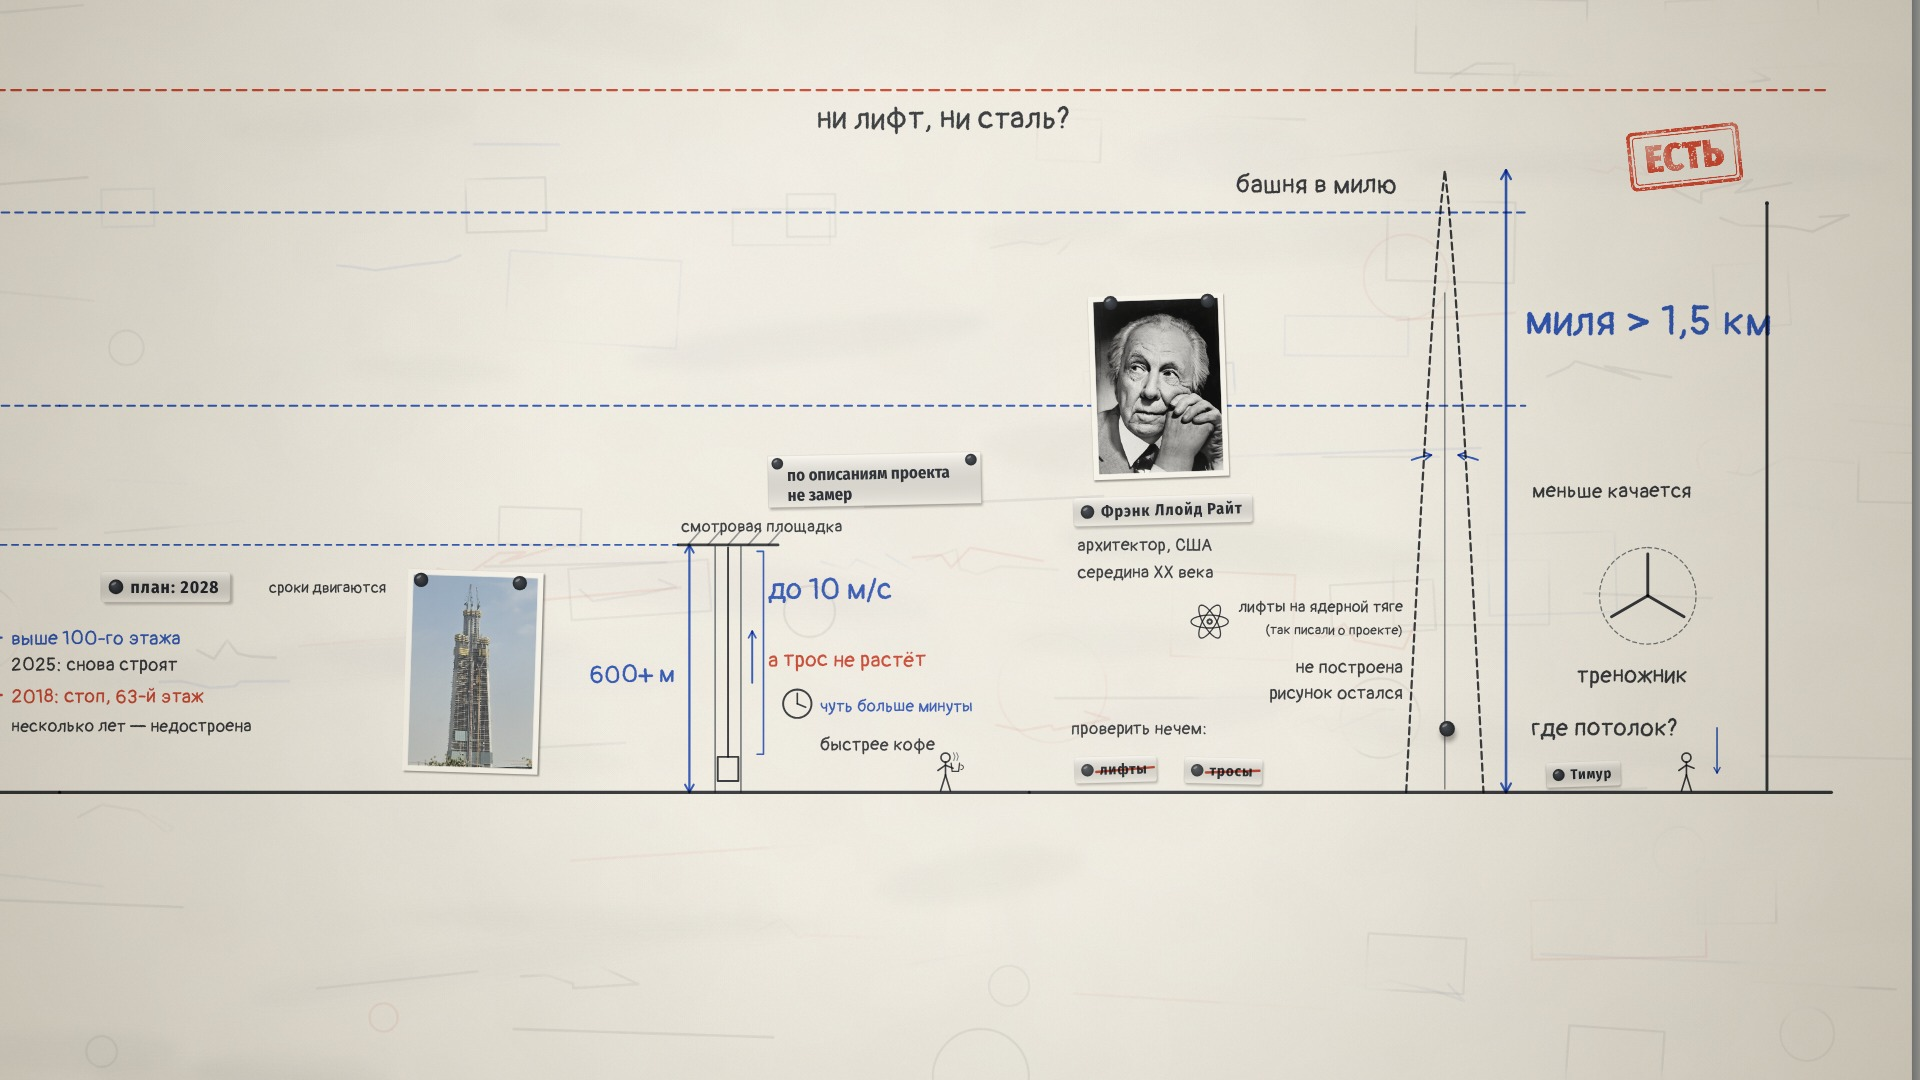
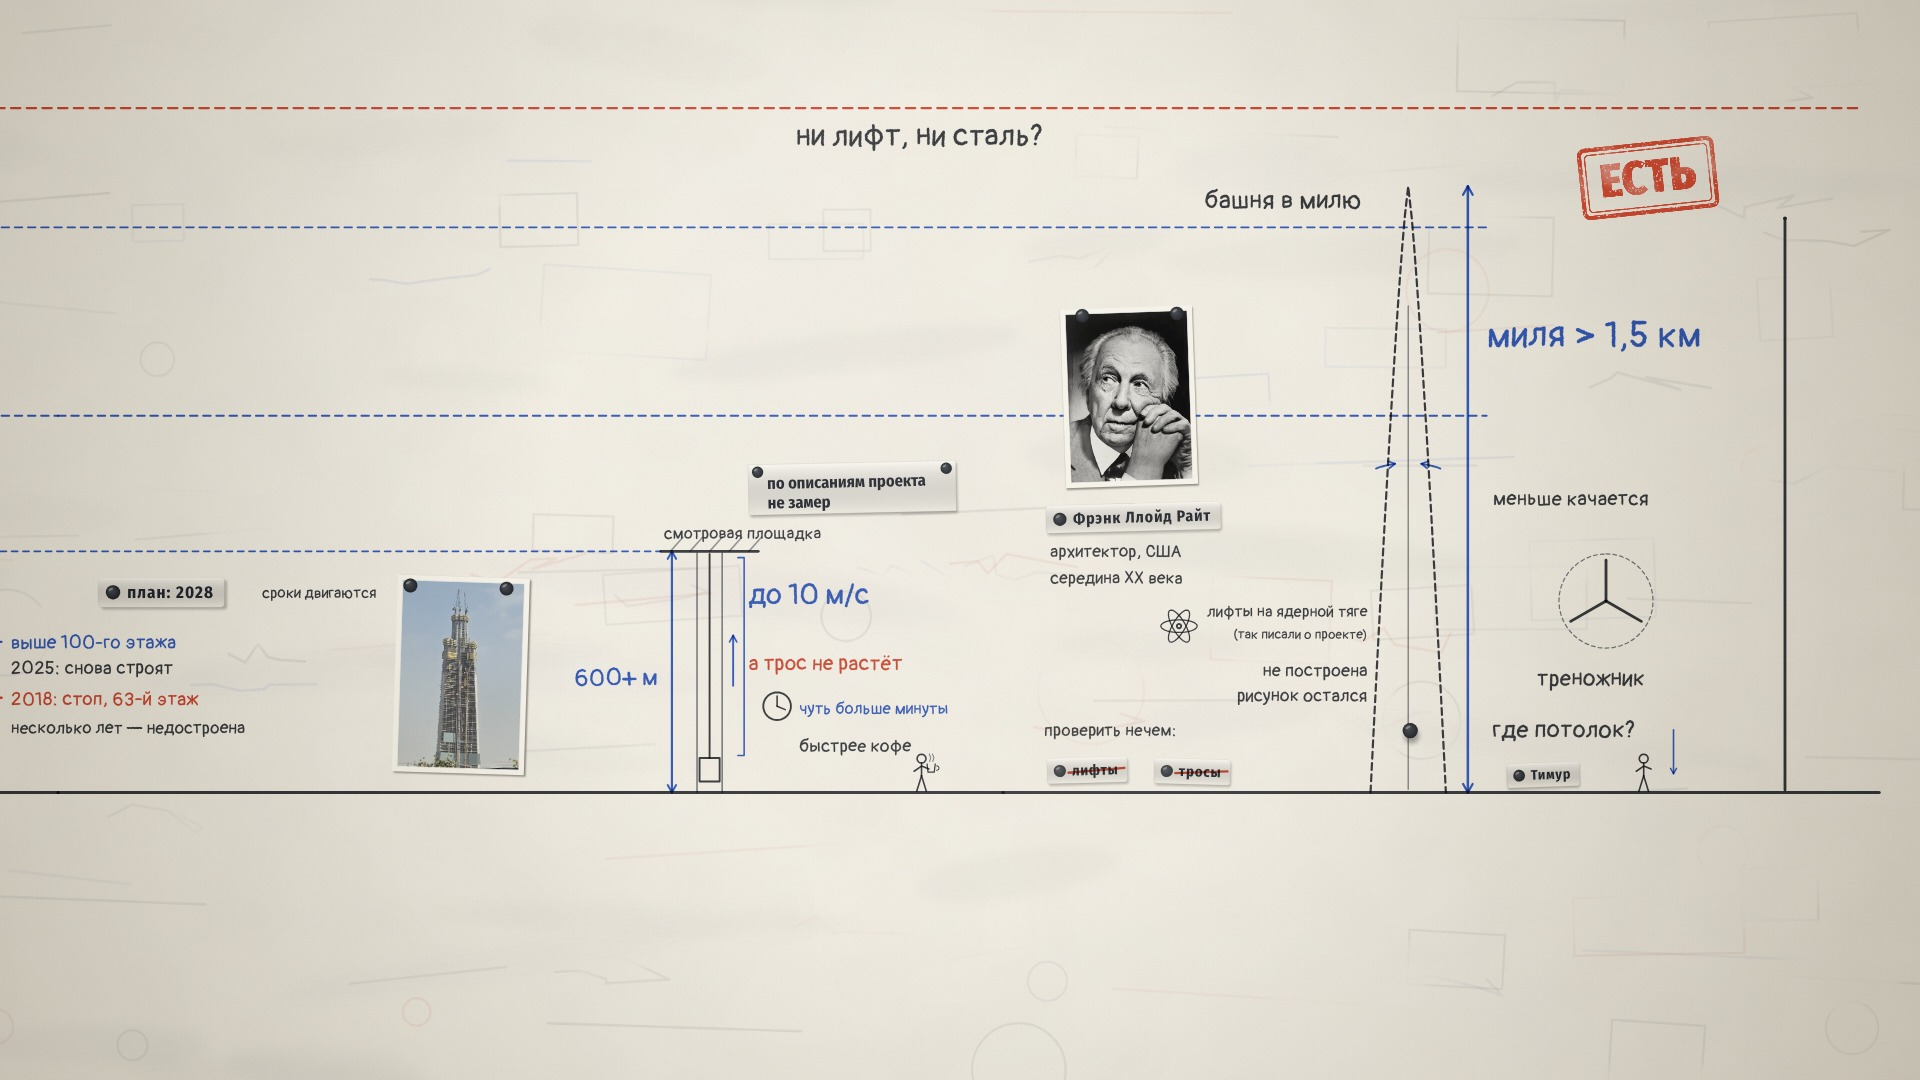
Chapter projects progress
Claude-Session: https://claude.ai/code/session_01RM84ZktC7yDNTdRACC84yR

diff --git a/ru_geo/lemo/bh_brief_EF/scenes/_gen_film.py b/ru_geo/lemo/bh_brief_EF/scenes/_gen_film.py
@@ -21,7 +21,7 @@ OBJ = os.path.join(FILM, 'kit', 'objects')
 meta = lambda i: json.load(open(os.path.join(OBJ, i + '.json')))
 OFFSET = 350.23
 DUR = 131.49
-BW, BH = 8700, 3900
+BW, BH = 9400, 3900
 
 E, EV = [], []
 def el(**k): E.append(k); return k
@@ -252,7 +252,7 @@ write('середина XX века', 6110, 2235, 88.7, 1.0, 'graphite', 54)
 MX, MT = 7250, H(1609)
 mw = lambda y: 120 * ((y - MT) / (GY - MT)) ** .8
 my = [MT + (GY - MT) * i / 20 for i in range(21)]
-line([[5960, GY], [8450, GY]], 89.4, .5, lw=10)
+line([[5960, GY], [8750, GY]], 89.4, .5, lw=10)
 line([[MX - mw(y), y] for y in reversed(my)] + [[MX + mw(y), y] for y in my[1:]], 89.75, 1.6, lw=7, dash=[22, 14])
 write('башня в милю', 6600, 1040, 90.6, 1.0, 'graphite', 80)
 line([[MX, GY - 10], [MX, 1350]], 91.35, .7, 'grey', 4)
@@ -268,7 +268,7 @@ write('рисунок остался', 7120, 2610, 96.7, 1.0, 'graphite', 56, al
 line([[1300, KM15], [7500, KM15]], 98.85, 1.6, 'blue', 6, dash=[24, 18])
 write('1,5 км', 1270, 1135, 99.2, .6, 'blue', 120, align='right')
 ink('dim', 98.9, 1.4, 'blue', **{'from': [7440, GY], 'to': [7440, MT]}, lw=8, ea=1.6, eb=2.4)
-write('миля > 1,5 км', 7500, 1480, 99.6, 1.1, 'blue', 130)
+write('миля > 1,5 км', 7500, 1480, 99.6, 1.1, 'blue', 116)
 # sway: arcs either side of the top, then the tripod plan
 line(arc((MX, 2150), 300, 300, -110, -98, 8), 101.0, .3, 'blue', 6, arrow=True)
 line(arc((MX, 2150), 300, 300, -70, -82, 8), 101.3, .3, 'blue', 6, arrow=True)
@@ -288,13 +288,13 @@ arrow([8095, 2700], [8095, 2840], 114.9, .35, 'blue', 5)
 tag('Тимур', 7600, 2845, 115.3, size=44, rot=-2)
 write('где потолок?', 7520, 2725, 117.1, 1.0, 'graphite', 76)
 CEIL = 720
-line([[700, CEIL], [8450, CEIL]], 118.6, 2.2, 'red', 7, dash=[30, 20], ea=1.6, eb=2.2)
+line([[700, CEIL], [8700, CEIL]], 118.6, 2.2, 'red', 7, dash=[30, 20], ea=1.6, eb=2.2)
 write('ни лифт, ни сталь?', 5300, CEIL + 120, 121.4, 1.2, 'graphite', 96)
-el(type='stamp', text='ЕСТЬ', xy=[7990, CEIL + 210], size=120, rot=-6, t=123.5); ev(123.5, 'stamp', .1)
-RX = 8250
+el(type='stamp', text='ЕСТЬ', xy=[8010, CEIL + 225], size=150, rot=-6, t=123.5); ev(123.5, 'stamp', .1)
+RX = 8450
 line([[RX, GY - 8], [RX, 330]], 123.85, 1.8, 'graphite', 9, ea=1.4, eb=1.8)
-tag('трос', 8300, 1760, 125.0, size=64, rot=3)
-write('такого ещё не делали', 8200, 1210, 126.0, 1.7, 'graphite', 84, align='right')
+tag('трос', 8500, 1760, 125.0, size=64, rot=3)
+write('такого ещё не делали', 8400, 1210, 126.0, 1.7, 'graphite', 84, align='right')
 
 # ===================================================================== camera (one continuous camera; only the cards hide it)
 c = Cam(*fit([110, 1790, 1400, 3080]))
@@ -327,16 +327,16 @@ c.frame(86.3, 2.6, 6000, .69, bottom=2330, a=2, b=3)
 c.frame(89.3, 1.8, 6000, .38, bottom=2930, a=2, b=3)                 # the mile tower, nuclear lifts, never built
 c.frame(91.4, 2.3, 6000, .73, bottom=2930, a=2, b=3)
 c.to(94.0, 4.0, z=z_of(c) * 1.025)
-c.fit(98.6, 2.0, [100, 950, 8600, 3620], a=1.8, b=3)                # the mile against Burj and Jeddah
+c.fit(98.6, 2.0, [60, 950, 8900, 3620], a=1.8, b=3)                # the mile against Burj and Jeddah
 c.to(100.6, .6, z=z_of(c) * 1.005)
 c.frame(101.0, 1.7, 6000, .71, a=2, b=3)               # sway, tripod
 c.to(102.7, 4.0, z=z_of(c) * 1.03)
 c.frame(107.4, 1.6, 6000, .76, bottom=2930, a=2, b=3)               # nothing to test it with
 c.to(109.0, 4.5, z=z_of(c) * 1.02)
 c.frame(114.1, 1.6, 7140, 1.215, bottom=2930, a=2, b=3)               # Timur: where is the ceiling?
-c.frame(118.4, 2.4, 2765, 1920 / (8725 - 2765), a=1.8, b=3)              # rise to the ceiling
+c.frame(118.4, 2.4, 2765, 1920 / (8880 - 2765), a=1.8, b=3)              # rise to the ceiling
 c.to(120.8, 5.6, y=c.cur['y'] - 12)                # the rope, all the way up
-c.fit(126.6, 3.4, [60, 300, 8650, 3600], a=1.8, b=3.2)              # the whole wall
+c.fit(126.6, 3.4, [60, 300, 8950, 3620], a=1.8, b=3.2)              # the whole wall
 c.to(130.0, 1.49, z=z_of(c) * 1.006)
 
 scene = dict(dur=DUR, board=dict(w=BW, h=BH, seed=41, texScale=.4, ghosts=150, tray=False), hand=1.0, sheen=.07,

diff --git a/ru_geo/lemo/bh_brief_CD/scenes/_gen_film.py b/ru_geo/lemo/bh_brief_CD/scenes/_gen_film.py
@@ -509,7 +509,7 @@ print('zone offsets', {k: round(v) for k, v in OFF.items()}, 'board w', BW)
 for s_ in SHOTS: print('  shot %.2f  box %s  z %.3f' % (s_['t'], [round(v) for v in s_['box']], fit(s_['box'], s_['zmax'])[2]))
 
 scene = dict(dur=DUR, board=dict(w=BW, h=BH, seed=31, texScale=.4, ghosts=200, tray=False), hand=1.0, sheen=.07,
-             light=dict(x=-1800, y=-2400, r=26000, min=.8), cam=c.json(), mbMax=6, elements=E, cards=CARDS,
+             light=dict(x=-1800, y=-2400, r=36000, min=.8), cam=c.json(), mbMax=6, elements=E, cards=CARDS,
              ev=sorted(EV, key=lambda e: e['t']), subs=[])
 json.dump(scene, open(os.path.join(HERE, 'film.json'), 'w'), ensure_ascii=False, indent=1)
 json.dump(dict(dur=DUR, ev=scene['ev']), open(os.path.join(FILM, 'events.json'), 'w'), separators=(',', ':'))
